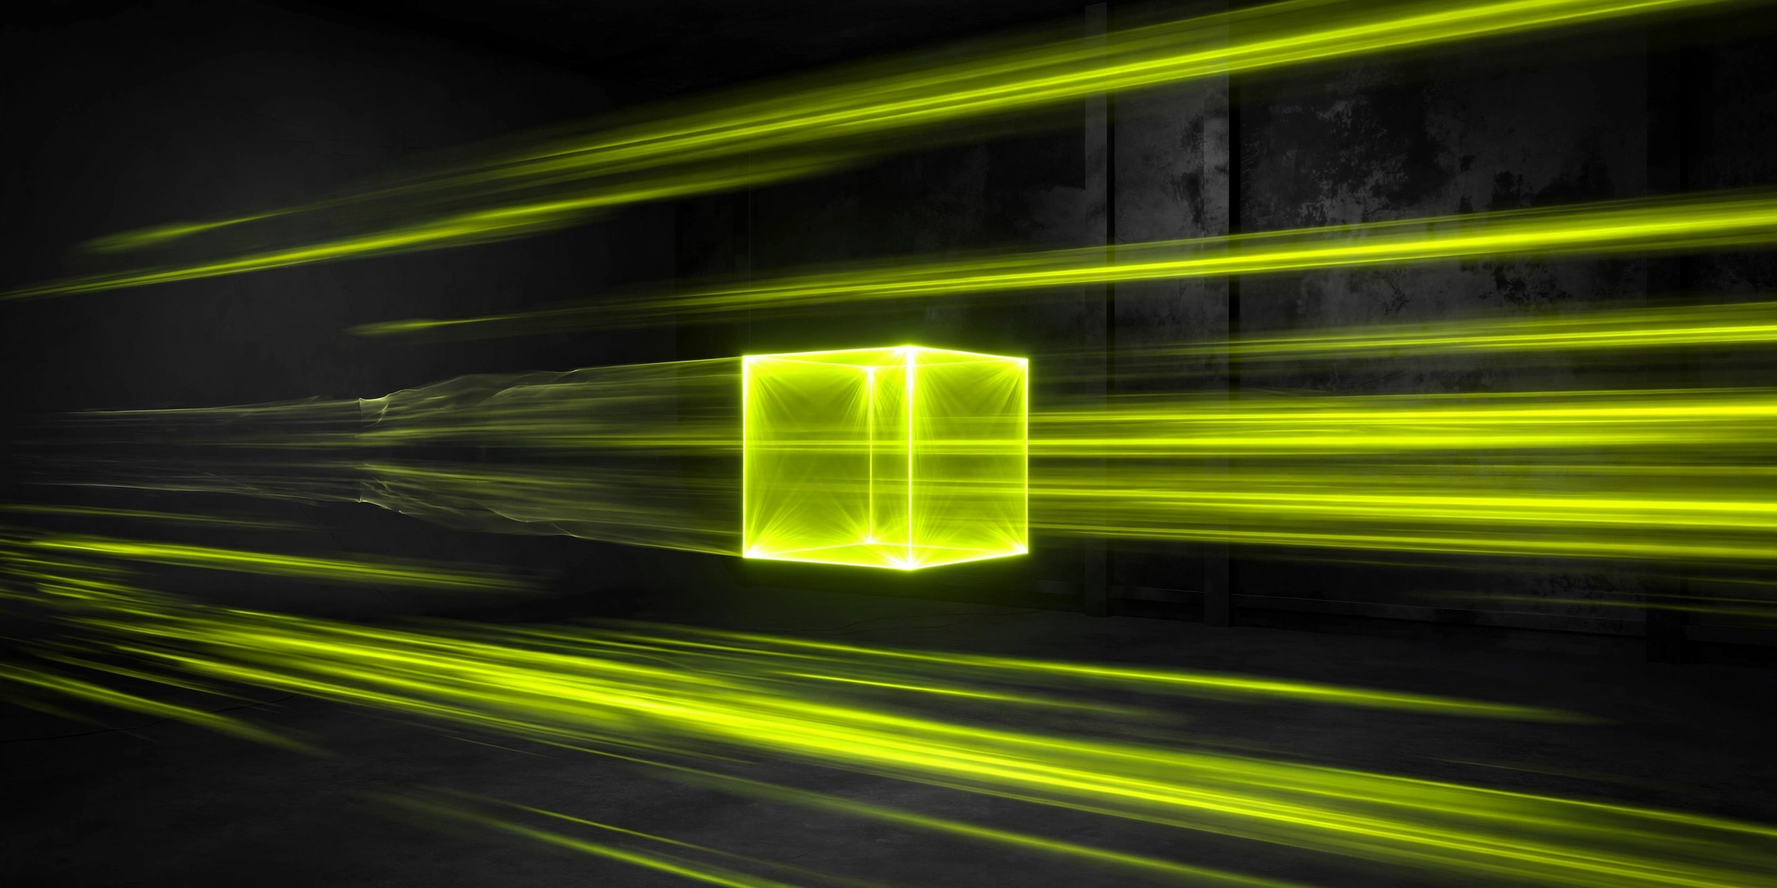
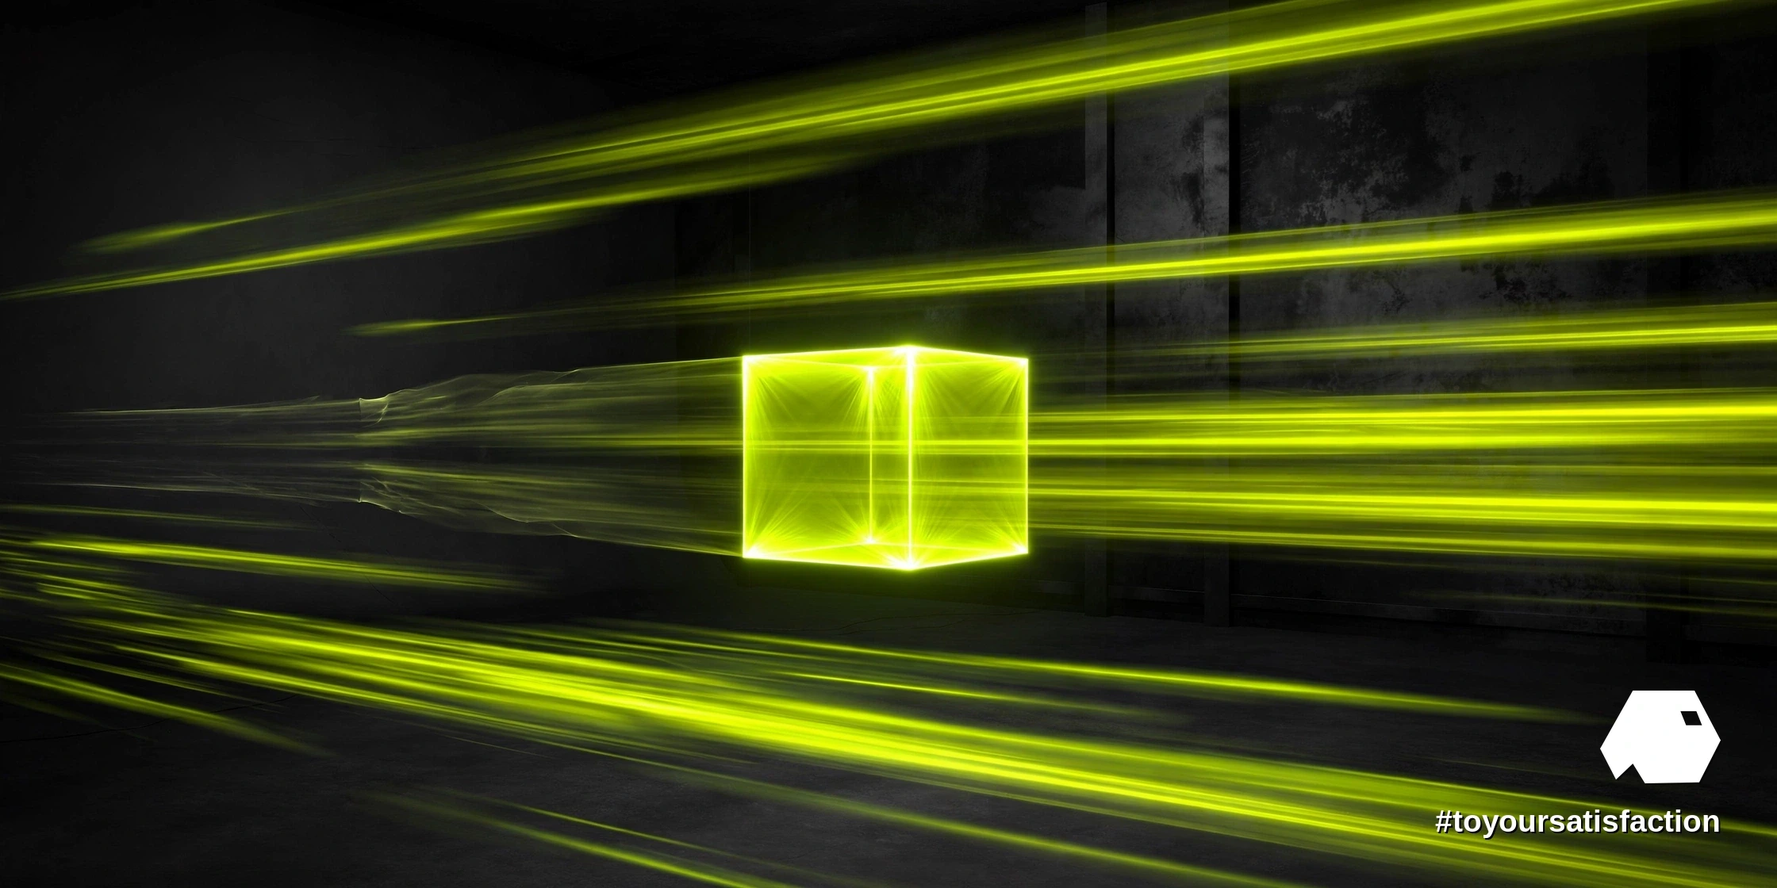
Magazine edition — batch 3

Changed region(s): [[0.8125, 0.7812, 0.9688, 0.9375]]

diff --git a/articles/speed-is-a-craft-choice/index.html b/articles/speed-is-a-craft-choice/index.html
@@ -13,34 +13,74 @@
 <meta property="og:image" content="https://oviainc.github.io/ai-services/articles/speed-is-a-craft-choice/ovia-inc-speed-is-a-craft-choice-hero.webp">
 <meta name="twitter:card" content="summary_large_image">
 <style>
-  :root{--bg:#0A0E14;--accent:#2E9BD6;--text:#FFFFFF;--muted:#B9C4CE;}
+  :root{--bg:#0A0E14;--panel:#101823;--text:#FFFFFF;--muted:#B9C4CE;--line:#22303E;--accent:#B7D929;}
   *{box-sizing:border-box;margin:0;padding:0;}
-  body{background:var(--bg);color:var(--text);font-family:-apple-system,BlinkMacSystemFont,"Segoe UI",Roboto,Helvetica,Arial,sans-serif;line-height:1.65;}
-  main{max-width:760px;margin:0 auto;padding:32px 20px 48px;}
-  .langbar{display:flex;justify-content:flex-end;align-items:center;gap:10px;margin-bottom:18px;}
-  .langbar label{color:var(--muted);font-size:.85rem;letter-spacing:.08em;text-transform:uppercase;}
-  .langbar select{background:#101823;color:var(--text);border:1px solid #1E2A36;border-radius:8px;padding:6px 10px;font-size:.95rem;max-width:60vw;}
-  .kicker{color:var(--accent);font-size:.85rem;letter-spacing:.18em;text-transform:uppercase;margin-bottom:14px;}
-  h1{font-size:2rem;line-height:1.25;margin-bottom:20px;font-weight:700;}
-  h2{font-size:1.3rem;line-height:1.35;margin:28px 0 12px;font-weight:700;color:var(--accent);}
-  img.hero{width:100%;height:auto;border-radius:10px;display:block;margin-bottom:28px;}
-  p{margin-bottom:16px;color:var(--text);}
-  p.tags{color:var(--accent);font-size:.95rem;}
-  ul.refs{list-style:none;margin-bottom:16px;}
-  ul.refs li{margin-bottom:10px;color:var(--muted);font-size:.95rem;}
+  body{background:var(--bg);color:var(--text);font-family:Georgia,'Times New Roman',Times,serif;line-height:1.6;}
+  a{color:var(--accent);}
+  .sans{font-family:-apple-system,BlinkMacSystemFont,"Segoe UI",Roboto,Helvetica,Arial,sans-serif;}
+  /* masthead zone over the article background image */
+  .mastzone{position:relative;overflow:hidden;border-bottom:1px solid var(--line);}
+  .mast-bg{position:absolute;inset:0;background-size:cover;background-position:center;opacity:.22;}
+  .mast-shade{position:absolute;inset:0;background:linear-gradient(180deg,rgba(10,14,20,.52),rgba(10,14,20,.94));}
+  .mast-inner{position:relative;max-width:1180px;margin:0 auto;padding:24px 22px 42px;}
+  .masthead{display:flex;align-items:center;gap:16px;flex-wrap:wrap;}
+  .masthead a.logo{display:block;line-height:0;}
+  .masthead img.logo{height:46px;width:auto;display:block;}
+  .wordmark{font-family:-apple-system,BlinkMacSystemFont,"Segoe UI",Roboto,Helvetica,Arial,sans-serif;letter-spacing:.34em;font-size:13px;text-transform:uppercase;color:var(--text);}
+  .langbar{display:flex;align-items:center;gap:10px;margin-left:auto;}
+  .langbar label{color:var(--muted);font-size:.8rem;letter-spacing:.08em;text-transform:uppercase;font-family:-apple-system,BlinkMacSystemFont,"Segoe UI",Roboto,Helvetica,Arial,sans-serif;}
+  .langbar select{background:#101823;color:var(--text);border:1px solid var(--line);border-radius:8px;padding:6px 10px;font-size:.95rem;max-width:52vw;}
+  .kicker{color:var(--accent);font-size:.85rem;letter-spacing:.3em;text-transform:uppercase;margin:44px 0 16px;font-family:-apple-system,BlinkMacSystemFont,"Segoe UI",Roboto,Helvetica,Arial,sans-serif;}
+  h1.display{font-family:"Arial Narrow Bold","Franklin Gothic Medium",Impact,Haettenschweiler,"Helvetica Neue Condensed Bold",sans-serif;text-transform:uppercase;font-weight:700;font-size:clamp(2.5rem,6.4vw,4.7rem);line-height:.99;letter-spacing:.004em;max-width:1020px;}
+  .standfirst{font-size:clamp(1.12rem,2.3vw,1.42rem);font-style:italic;color:var(--muted);max-width:780px;line-height:1.5;margin-top:18px;}
+  .byline{font-family:-apple-system,BlinkMacSystemFont,"Segoe UI",Roboto,Helvetica,Arial,sans-serif;font-size:.74rem;letter-spacing:.2em;text-transform:uppercase;color:var(--muted);border-top:1px solid var(--line);margin-top:24px;padding-top:14px;}
+  /* hero */
+  .hero-zone{max-width:1180px;margin:34px auto 0;padding:0 22px;}
+  figure.hero img{width:100%;height:auto;display:block;border-radius:2px;}
+  figcaption{font-family:-apple-system,BlinkMacSystemFont,"Segoe UI",Roboto,Helvetica,Arial,sans-serif;font-size:.78rem;color:var(--muted);padding-top:8px;letter-spacing:.03em;}
+  /* body columns */
+  main{max-width:1180px;margin:0 auto;padding:6px 22px 30px;}
+  .cols{margin-top:30px;font-size:1.16rem;line-height:1.75;}
+  @media (min-width:1020px){.cols{column-count:2;column-gap:54px;}}
+  .cols p{margin:0 0 20px;}
+  .cols p.first::first-letter{font-family:"Arial Narrow Bold","Franklin Gothic Medium",Impact,sans-serif;font-size:5.4rem;line-height:.78;float:left;padding:.55rem .9rem 0 0;color:var(--accent);font-weight:700;}
+  h2.sec{font-family:-apple-system,BlinkMacSystemFont,"Segoe UI",Roboto,Helvetica,Arial,sans-serif;font-size:.88rem;letter-spacing:.26em;text-transform:uppercase;color:var(--accent);margin:36px 0 14px;border-top:2px solid var(--accent);padding-top:14px;break-after:avoid;}
+  h2.sec:first-child{margin-top:0;}
+  blockquote.pull{column-span:all;font-size:clamp(1.55rem,3.6vw,2.35rem);line-height:1.3;font-style:italic;text-align:center;color:var(--accent);margin:42px 0;padding:4px 12px;}
+  figure.body{margin:4px 0 22px;break-inside:avoid;}
+  figure.wide{column-span:all;margin:30px 0 34px;}
+  figure.body img,figure.wide img{width:100%;height:auto;display:block;border-radius:2px;}
+  .keybox{break-inside:avoid;background:var(--panel);border:1px solid var(--line);border-top:3px solid var(--accent);padding:18px 20px 10px;margin:0 0 24px;font-family:-apple-system,BlinkMacSystemFont,"Segoe UI",Roboto,Helvetica,Arial,sans-serif;}
+  .keybox h3{font-size:.78rem;letter-spacing:.24em;text-transform:uppercase;color:var(--accent);margin-bottom:10px;}
+  .keybox li{margin:0 0 9px 18px;font-size:.95rem;line-height:1.5;}
+  /* references + tags + footer */
+  .refs-sec{margin-top:44px;border-top:1px solid var(--line);padding-top:24px;}
+  .refs-sec h2{font-family:-apple-system,BlinkMacSystemFont,"Segoe UI",Roboto,Helvetica,Arial,sans-serif;font-size:.88rem;letter-spacing:.26em;text-transform:uppercase;color:var(--accent);margin-bottom:14px;}
+  ul.refs{list-style:none;}
+  ul.refs li{margin-bottom:10px;color:var(--muted);font-size:.95rem;font-family:-apple-system,BlinkMacSystemFont,"Segoe UI",Roboto,Helvetica,Arial,sans-serif;}
   ul.refs a{color:var(--accent);text-decoration:none;word-break:break-all;}
   ul.refs a:hover{text-decoration:underline;}
-  footer{border-top:1px solid #1E2A36;margin-top:36px;padding-top:20px;font-size:.95rem;color:var(--muted);}
+  p.tags{color:var(--accent);font-size:.95rem;margin-top:26px;font-family:-apple-system,BlinkMacSystemFont,"Segoe UI",Roboto,Helvetica,Arial,sans-serif;}
+  footer{border-top:1px solid var(--line);margin-top:38px;padding:22px 0 10px;font-size:.95rem;color:var(--muted);font-family:-apple-system,BlinkMacSystemFont,"Segoe UI",Roboto,Helvetica,Arial,sans-serif;}
+  footer .frow{display:flex;align-items:center;gap:14px;flex-wrap:wrap;}
+  footer img.flogo{height:30px;width:auto;display:block;}
   footer a{color:var(--accent);text-decoration:none;}
   footer a:hover{text-decoration:underline;}
-  @media (max-width:600px){h1{font-size:1.55rem;}main{padding:22px 16px 36px;}}
+  footer .ftag{color:var(--text);letter-spacing:.06em;}
+  @media (max-width:640px){.mast-inner{padding:18px 16px 30px;}main,.hero-zone{padding-left:16px;padding-right:16px;}h1.display{font-size:2.35rem;}.cols{font-size:1.08rem;}}
 </style>
 </head>
 <body>
-<main>
-<div class="langbar">
-          <label for="langPick" data-tr>Language</label>
-          <select id="langPick" aria-label="Choose your language">
+<header class="mastzone">
+  <div class="mast-bg" style="background-image:url('ovia-inc-speed-is-a-craft-choice-background.webp')"></div>
+  <div class="mast-shade"></div>
+  <div class="mast-inner">
+    <div class="masthead">
+      <a class="logo" href="../../" aria-label="Ovia Inc — home"><img class="logo" src="../../assets/ovia-inc-logo-white.webp" alt="Ovia Inc — logo"></a>
+      <span class="wordmark">Ovia Inc — Magazine</span>
+      <div class="langbar">
+        <label for="langPick" data-tr>Language</label>
+        <select id="langPick" aria-label="Choose your language">
             <option value="en">English</option>
             <option value="fr">Français</option>
             <option value="es">Español</option>
@@ -118,28 +158,62 @@
             <option value="lo">ລາວ</option>
             <option value="mn">Монгол</option>
           </select>
-        </div>
-  <p class="kicker" data-tr>Ovia Inc — Articles</p>
-  <h1 data-tr>Speed Is a Craft Choice: Decoding Belongs in the Design Phase</h1>
-  <img class="hero" src="ovia-inc-speed-is-a-craft-choice-hero.webp" alt="Ovia Inc — Chartreuse light streaks racing horizontally through a dark graphite space, one sharp glowing cube of light holding still at the centre">
-  <h2 data-tr>The numbers on the table</h2>
-  <p data-tr>One table in NVIDIA's October 30, 2026 technical post deserves more attention than the headline around it. Running Nemotron-3.5 Lightning on a DGX Spark in the 64GB configuration, through TensorRT Edge-LLM, NVIDIA reports mean generation speed on SpeedBench 1K rising from 73.3 tokens per second with DSpark speculative decoding off to 108.5 with DSpark on. On HumanEval prompts, the same switch moves generation from 73.4 to 126.9 tokens per second. Median time to first token barely changes — 201 milliseconds off, 203 on, for the 1K workload. Every figure is vendor-reported, measured by NVIDIA on NVIDIA hardware, under a specific test setup: batch size one, a single streaming request, a 128-token output limit, three draft tokens in the DSpark configuration.</p>
-  <h2 data-tr>How speculative decoding buys speed</h2>
-  <p data-tr>The mechanism is a wager with a referee. A fast, cheap drafting process proposes several tokens ahead; the full model verifies the proposals in one pass, accepting the stretches that hold and correcting the first point of divergence. When drafts are good, several tokens land for roughly the cost of one full step. When drafts are poor, verification still guarantees the output matches what the full model would have produced — the speed is opportunistic, the correctness is not. Draft length, draft source and acceptance behaviour become tuning surfaces, closer to engine building than to prompting.</p>
-  <h2 data-tr>Why the first token barely moves</h2>
-  <p data-tr>The flat time-to-first-token line is the honest detail in the table, and the instructive one. Speculative decoding accelerates the long middle of a generation; the wait for the first token is governed by prompt processing, which drafting does not touch. Two different latencies, two different levers. Systems that feel fast attend to both: prompt-side work — context size, caching, prefill efficiency — for the opening moment, and decoding strategy for everything after. Conflating the two produces optimisation programmes that improve the number nobody was waiting on.</p>
-  <h2 data-tr>The design-phase argument</h2>
-  <p data-tr>Agent workloads multiply whatever the decoding layer decides. A single user request fans out into planning, tool calls, verification and revision — dozens of generations, each paying the per-token rate. A gain near fifty percent, of the size NVIDIA reports on the 1K workload, compounds across every loop the agent runs, and lands directly in operating cost and in how responsive the system feels. That is why decoding strategy belongs in the design phase, beside quantisation, engine builds and context budgets — the cluster of decisions the discipline behind NVIDIA-Certified Professional: AI Operations treats as the craft itself, and the same cluster context engineering at Ovia weighs before an agent ever meets a user.</p>
-  <h2 data-tr>What to watch</h2>
-  <p data-tr>Watch for independent reproductions on real agent workloads rather than benchmark prompts, for drafting strategies tuned per workload instead of per demo, and for serving stacks that expose decoding choices as first-class configuration. The deeper shift is cultural: generation speed stops being a property a model simply has, and becomes a property a team designs, measures and defends — a craft choice, made on purpose.</p>
-  <p data-tr>A second discipline follows from the flat first-token line: measure the two latencies separately, in production, per workload. Benchmark tables report medians on clean prompts; real estates serve long contexts, warm and cold caches, and users who judge the whole system by the pause before the first word appears. Teams that instrument both numbers can spend effort where the waiting actually happens — prefill and context handling for the opening moment, decoding strategy for the long generation that follows — instead of celebrating an average that hides both problems at once.</p>
-  <h2 data-tr>References</h2>
-  <ul class="refs">
-    <li><span data-tr>NVIDIA Technical Blog — “Run AI Models for Edge Application Development with Just a Few Commands”, October 30, 2026:</span> <a href="https://developer.nvidia.com/blog/run-ai-models-for-edge-application-development-with-just-a-few-commands/">https://developer.nvidia.com/blog/run-ai-models-for-edge-application-development-with-just-a-few-commands/</a></li>
-  </ul>
+      </div>
+    </div>
+    <p class="kicker" data-tr>Ovia Inc — AI Operations · Edge AI</p>
+    <h1 class="display" data-tr>Speed Is a Craft Choice: Decoding Belongs in the Design Phase</h1>
+    <p class="standfirst" data-tr>Generation speed stops being a property a model simply has and becomes a property a team designs, measures and defends, starting in the design phase.</p>
+    <p class="byline" data-tr>Ovia Inc · Studio and Lab · 6 min read</p>
+  </div>
+</header>
+<div class="hero-zone">
+  <figure class="hero">
+    <img src="ovia-inc-speed-is-a-craft-choice-hero.webp" alt="Ovia Inc — Chartreuse light streaks racing horizontally through a dark graphite space, one sharp glowing cube of light holding still at the centre">
+    <figcaption data-tr>Chartreuse streaks through graphite, one glowing cube at the centre. Image: Ovia Inc</figcaption>
+  </figure>
+</div>
+<main>
+  <div class="cols">
+<p class="first" data-tr>Speed is often treated as a property a model simply has, printed beside a benchmark and accepted as fate. A recent set of results on a desktop machine tells a different story: change the decoding strategy, keep the hardware and the model, and generation moves by half again.</p>
+<p data-tr>The numbers come with careful limits. Every figure in the table is vendor-reported, measured by NVIDIA on NVIDIA hardware under a specific test setup. Vendor figures deserve that flag every time those figures are quoted, and the flag does not make the underlying lesson disappear.</p>
+<p data-tr>The lesson concerns design. Decoding strategy, draft length and verification behaviour now sit beside quantisation, engine builds and context budgets as decisions a team makes on purpose, measures honestly and defends with evidence from real workloads.</p>
+<aside class="keybox"><h3 data-tr>Key points</h3><ul><li data-tr>NVIDIA reports SpeedBench 1K generation rising from 73.3 to 108.5 tokens per second with DSpark speculative decoding switched on.</li><li data-tr>On HumanEval prompts, NVIDIA reports the same switch moving generation from 73.4 to 126.9 tokens per second.</li><li data-tr>Median time to first token barely changes, at 201 milliseconds off and 203 on for the 1K workload, because drafting does not touch prompt processing.</li><li data-tr>Agent workloads multiply decoding gains across planning, tool calls, verification and revision loops.</li></ul></aside>
+<h2 class="sec" data-tr>01 · The numbers on the table</h2>
+<p data-tr>One table in NVIDIA's October 30, 2026 technical post deserves more attention than the headline around it. Running Nemotron-3.5 Lightning on a DGX Spark in the 64GB configuration, through TensorRT Edge-LLM, NVIDIA reports mean generation speed on SpeedBench 1K rising from 73.3 tokens per second with DSpark speculative decoding off to 108.5 with DSpark on. On HumanEval prompts, the same switch moves generation from 73.4 to 126.9 tokens per second. Median time to first token barely changes — 201 milliseconds off, 203 on, for the 1K workload. Every figure is vendor-reported, measured by NVIDIA on NVIDIA hardware, under a specific test setup: batch size one, a single streaming request, a 128-token output limit, three draft tokens in the DSpark configuration.</p>
+<p data-tr>Those test conditions are part of the result, not fine print beneath the result. Batch size one and a single streaming request describe a personal, interactive workload — exactly the setting a desktop machine serves — rather than a packed data centre queue. A team running large batches, long outputs or shared serving should expect different numbers and should measure on the workload actually served instead of borrowing a table built for another shape of work.</p>
+<figure class="body"><img src="ovia-inc-speed-is-a-craft-choice-body-1.webp" alt="Ovia Inc — Chartreuse light trails racing through graphite space toward one sharp glowing cube at the centre"><figcaption data-tr>Chartreuse trails through graphite, one glowing cube holding at the centre. Image: Ovia Inc</figcaption></figure>
+<h2 class="sec" data-tr>02 · How speculative decoding buys speed</h2>
+<p data-tr>The mechanism is a wager with a referee. A fast, cheap drafting process proposes several tokens ahead; the full model verifies the proposals in one pass, accepting the stretches that hold and correcting the first point of divergence. When drafts are good, several tokens land for roughly the cost of one full step. When drafts are poor, verification still guarantees the output matches what the full model would have produced — the speed is opportunistic, the correctness is not. Draft length, draft source and acceptance behaviour become tuning surfaces, closer to engine building than to prompting.</p>
+<p data-tr>Tuning those surfaces is real craft work. Longer drafts promise more tokens per verification pass and waste more work when an early proposal misses. Shorter drafts stay safer and leave speed unclaimed. The right setting depends on how predictable the workload is: structured, repetitive generation drafts well, while open-ended generation argues for restraint. No single setting deserves to be called best without naming the workload the setting was tuned for.</p>
+<blockquote class="pull" data-tr>Generation speed stops being a property a model simply has, and becomes a property a team designs, measures and defends.</blockquote>
+<h2 class="sec" data-tr>03 · Why the first token barely moves</h2>
+<p data-tr>The flat time-to-first-token line is the honest detail in the table, and the instructive one. Speculative decoding accelerates the long middle of a generation; the wait for the first token is governed by prompt processing, which drafting does not touch. Two different latencies, two different levers. Systems that feel fast attend to both: prompt-side work — context size, caching, prefill efficiency — for the opening moment, and decoding strategy for everything after. Conflating the two produces optimisation programmes that improve the number nobody was waiting on.</p>
+<figure class="wide"><img src="ovia-inc-speed-is-a-craft-choice-body-2.webp" alt="Ovia Inc — A graphite workshop bench with calibrated instruments and a chartreuse light trail looping above"><figcaption data-tr>A graphite bench, calibrated instruments and a looping chartreuse trail. Image: Ovia Inc</figcaption></figure>
+<p data-tr>Users feel the distinction even when dashboards hide the distinction. A long pause before the first word reads as a system that has stalled, however fast the words arrive afterwards. A quick first word followed by a slow stream reads as a system working steadily. Both experiences come from the same generation, split across two latencies, and a serious performance review reports the pair separately rather than hiding both problems inside one average.</p>
+<h2 class="sec" data-tr>04 · The design-phase argument</h2>
+<p data-tr>Agent workloads multiply whatever the decoding layer decides. A single user request fans out into planning, tool calls, verification and revision — dozens of generations, each paying the per-token rate. A gain near fifty percent, of the size NVIDIA reports on the 1K workload, compounds across every loop the agent runs, and lands directly in operating cost and in how responsive the system feels. That is why decoding strategy belongs in the design phase, beside quantisation, engine builds and context budgets — the cluster of decisions the discipline behind NVIDIA-Certified Professional: AI Operations treats as the craft itself, and the same cluster context engineering at Ovia weighs before an agent ever meets a user.</p>
+<p data-tr>Design-phase attention also protects honesty later. When decoding is chosen early, the choice gets benchmarked against the intended workload, recorded beside the engine build, and revisited when hardware or models change. When decoding is left as a default discovered after launch, speed problems arrive as surprises and fixes arrive as folklore. Craft, in operations, mostly means making the important choices while evidence can still change the plan cheaply.</p>
+<figure class="body"><img src="ovia-inc-speed-is-a-craft-choice-body-3.webp" alt="Ovia Inc — Two chartreuse light trails in graphite space, one short burst and one long sustained stream"><figcaption data-tr>One short burst and one long stream: two latencies, two levers. Image: Ovia Inc</figcaption></figure>
+<h2 class="sec" data-tr>05 · What to watch</h2>
+<p data-tr>Watch for independent reproductions on real agent workloads rather than benchmark prompts, for drafting strategies tuned per workload instead of per demo, and for serving stacks that expose decoding choices as first-class configuration. The deeper shift is cultural: generation speed stops being a property a model simply has, and becomes a property a team designs, measures and defends — a craft choice, made on purpose.</p>
+<p data-tr>A second discipline follows from the flat first-token line: measure the two latencies separately, in production, per workload. Benchmark tables report medians on clean prompts; real estates serve long contexts, warm and cold caches, and users who judge the whole system by the pause before the first word appears. Teams that instrument both numbers can spend effort where the waiting actually happens — prefill and context handling for the opening moment, decoding strategy for the long generation that follows — instead of celebrating an average that hides both problems at once.</p>
+<p data-tr>The standard to hold is simple. Name the workload, publish the conditions, separate the two latencies, flag vendor figures as vendor figures, and tune the decoding layer deliberately.</p>
+
+  </div>
+  <div class="refs-sec">
+    <h2 data-tr>References</h2>
+    <ul class="refs">
+<li><span data-tr>NVIDIA Technical Blog — “Run AI Models for Edge Application Development with Just a Few Commands”, October 30, 2026:</span> <a href="https://developer.nvidia.com/blog/run-ai-models-for-edge-application-development-with-just-a-few-commands/">https://developer.nvidia.com/blog/run-ai-models-for-edge-application-development-with-just-a-few-commands/</a></li>
+
+    </ul>
+  </div>
   <p class="tags">#AIOperations #EdgeAI #ArtificialIntelligence #toyoursatisfaction</p>
   <footer>
-    <p><a href="../../">Ovia Inc</a> · Source on GitHub: <a href="https://github.com/Oviainc/ai-services">github.com/Oviainc/ai-services</a></p>
+    <div class="frow">
+      <a href="../../" aria-label="Ovia Inc — home"><img class="flogo" src="../../assets/ovia-inc-logo-white.webp" alt="Ovia Inc — logo"></a>
+      <span><a href="../../">Ovia Inc</a> · <span data-tr>Source on GitHub:</span> <a href="https://github.com/Oviainc/ai-services">github.com/Oviainc/ai-services</a></span>
+      <span class="ftag">#toyoursatisfaction</span>
+    </div>
   </footer>
 </main>
 <script>
